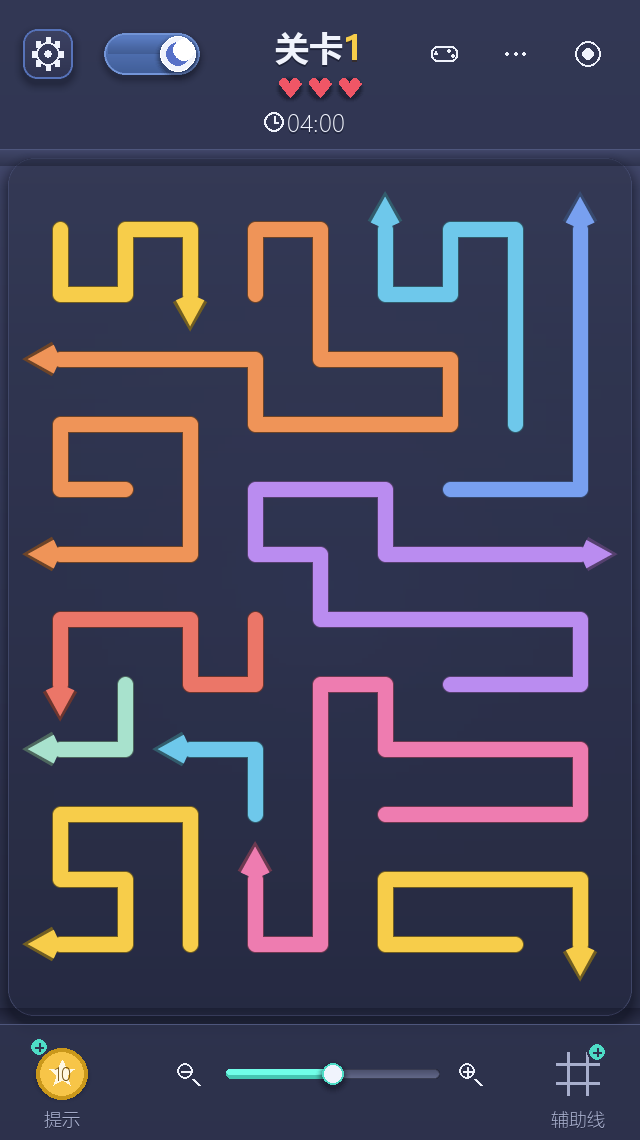
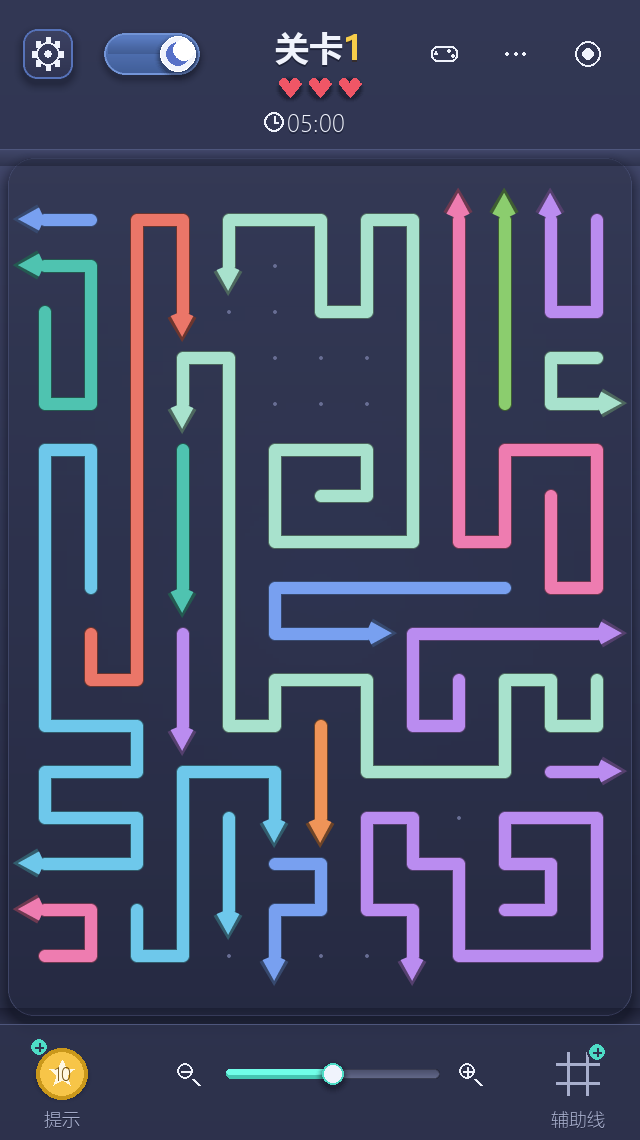
docs: 同步棋盘加密的说明、测试记录 T14/T15、AIGC 记录，重出截图
- README：棋盘密度一节改成实测值（基础 16x13 ~ 25x21、遮罩 155~475 格；
  字母统一 23x17 / 391 格；格子 24~40 px），332 -> 338 个用例
- docs/design.md：4.3 难度曲线换成新的 12 关表（开局可飞 62% -> 11% 严格递减）、
  第 9 节字母关 scale=3 / 23x17、8.6 性能表更新并补一句加密后的开销
- docs/test-record.md：标题升到 T01–T15、汇总 338 passed，新增
  T14（顶栏靶心按钮回归）与 T15（棋盘加密，含难度曲线反转的修法）
- AIGC记录.md：汇总表新增第 17 行（靶心按钮）与第 18 行（棋盘加密）
- 截图重出 16 张（棋盘加密后盘面全部变化）

Changed region(s): [[0.0312, 0.1535, 0.9688, 0.8596], [0.4688, 0.0921, 0.5, 0.1228]]

diff --git a/docs/design.md b/docs/design.md
@@ -42,10 +42,10 @@
 ```python
 {
     "id": 9, "name": "第9关 大盘如月", "shape": "round",
-    "mistakes": 3, "rows": 15, "cols": 15,
-    "seed": 9909072, "time_limit": 320,
+    "mistakes": 3, "rows": 21, "cols": 21,
+    "seed": 9909072, "time_limit": 460,
     "arrows": [ ... ],
-    "solution": [19, 18, ..., 0],   # 一条已验证的通关顺序
+    "solution": [37, 36, ..., 0],   # 一条已验证的通关顺序
 }
 ```
 
@@ -59,7 +59,7 @@
 ```python
 {
     "id": "M", "letter": "M", "shape": "letter",
-    "mistakes": 3, "rows": 16, "cols": 12, "time_limit": 210,
+    "mistakes": 3, "rows": 23, "cols": 17, "time_limit": 300,
     "arrows": [ ... ], "solution": [ ... ],
 }
 ```
@@ -153,24 +153,35 @@
 `tools/generate_levels.py` 给每一关单独配 `ray_pref` 与「开局可飞上限」，
 每关重启 240 次，在满足上限的候选里取填充率最高的一版。当前 12 关：
 
-| 关卡 | 形状 | 箭数 | 填充率 | 开局可飞 | 被挡 | 平均挡者 |
-|---|---|---|---|---|---|---|
-| 第1关 | 矩形 | 12 | 1.000 | 8 (67%) | 33% | 1.00 |
-| 第2关 | 矩形 | 12 | 0.985 | 7 (58%) | 42% | 0.75 |
-| 第3关 | 圆形 | 14 | 0.979 | 7 (50%) | 50% | 1.07 |
-| 第4关 | 菱形 | 10 | 0.941 | 5 (50%) | 50% | 1.20 |
-| 第5关 | 十字 | 12 | 1.000 | 5 (42%) | 58% | 1.25 |
-| 第6关 | 心形 | 13 | 0.977 | 4 (31%) | 69% | 1.77 |
-| 第7关 | 矩形 | 25 | 0.988 | 7 (28%) | 72% | 1.96 |
-| 第8关 | 三角 | 14 | 0.976 | 3 (21%) | 79% | 2.43 |
-| 第9关 | 圆形 | 25 | 0.960 | 5 (20%) | 80% | 2.44 |
-| 第10关 | 沙漏 | 13 | 0.976 | 2 (15%) | 85% | 2.15 |
-| 第11关 | 圆环 | 22 | 0.963 | 3 (14%) | 86% | 1.77 |
-| 第12关 | 矩形 | 19 | 0.962 | 2 (11%) | 89% | 2.95 |
-| **平均** | | 15.9 | 0.976 | 34% | 66% | 1.73 |
+| 关卡 | 形状 | 棋盘 | 箭数 | 填充率 | 开局可飞 | 被挡 | 平均挡者 |
+|---|---|---|---|---|---|---|---|
+| 第1关 | 矩形 | 17×13 | 21 | 0.941 | 13 (62%) | 38% | 0.76 |
+| 第2关 | 矩形 | 18×14 | 29 | 0.929 | 14 (48%) | 52% | 2.17 |
+| 第3关 | 圆形 | 16×16 | 28 | 0.962 | 13 (46%) | 54% | 1.07 |
+| 第4关 | 菱形 | 18×18 | 25 | 0.933 | 11 (44%) | 56% | 1.96 |
+| 第5关 | 十字 | 18×18 | 17 | 0.968 | 7 (41%) | 59% | 1.94 |
+| 第6关 | 心形 | 18×18 | 25 | 0.956 | 9 (36%) | 64% | 1.20 |
+| 第7关 | 矩形 | 21×15 | 33 | 0.937 | 8 (24%) | 76% | 2.67 |
+| 第8关 | 三角 | 17×18 | 19 | 0.963 | 4 (21%) | 79% | 2.21 |
+| 第9关 | 圆形 | 21×21 | 38 | 0.943 | 6 (16%) | 84% | 2.84 |
+| 第10关 | 沙漏 | 20×17 | 23 | 0.928 | 3 (13%) | 87% | 1.96 |
+| 第11关 | 圆环 | 21×21 | 35 | 0.931 | 4 (11%) | 89% | 2.31 |
+| 第12关 | 矩形 | 25×19 | 55 | 0.931 | 6 (11%) | 89% | 4.22 |
+| **平均** | | | 29.0 | 0.943 | 31% | 69% | 2.11 |
 
-「开局可飞」逐关递减：第 1 关七成左右能直接点（给新手留容错），第 12 关只剩
-一成多（开局只有 2 支能点，其余全被压住）。
+「开局可飞」逐关递减且**严格不回升**：第 1 关六成多能直接点（给新手留容错），
+第 12 关只剩一成（55 支箭里开局只有 6 支能点，其余全被压住）。
+
+怎么保证「严格不回升」？只靠 PLAN 里那张上限表是压不住的 —— 每一关都在自己的
+上限内独立挑最满的一版，实际值可能比上一关还高（上限 0.78 拿到 0.62，下一关上限
+0.65 却拿到 0.64）。所以 `build_one()` 做了两件事：
+
+1. 把上限压到「上一关**实际**值 − `FREE_MARGIN`(0.004)」以下；
+2. 上限压下去以后，**同一个种子不一定够得到**（环形 21×21 用原种子只能到 14.6%，
+   换种子能到 10.8%），而且够到了也可能铺得很稀 —— 于是上限没满足、或满足了但
+   填充率不到 `GOOD_FILL`(0.92)，就换个种子再来一遍，取「满足上限里铺得最满」的一版。
+
+校验里也加了这条：`--check` 会打印整条难度曲线，出现回升就报 BAD。
 
 生成后要过两道独立检查：`verify_solution()` 拿真正的 `Board` 按 `solution`
 模拟点一遍，`solver.solve()` 再独立解一遍，两边都过才写进 `game/level.py`。
@@ -446,21 +457,24 @@ paint.blit_glow(self.canvas, center, 430, pal.glow, 62, 2.3)
 
 | 界面 | 中位 | 最大 |
 |---|---|---|
-| 开始页（含艺术字） | 1.89 ms | 2.88 ms |
-| 规则页 | 5.78 ms | 10.76 ms |
-| 基础选关 | 3.86 ms | 4.87 ms |
-| 字母选关 | 1.54 ms | 2.93 ms |
-| 字母关（静态） | 2.16 ms | 2.72 ms |
-| 字母关（飞行中） | 2.15 ms | 3.01 ms |
-| 第 1 关（静态） | 2.43 ms | 3.31 ms |
-| 第 12 关（静态） | 3.32 ms | 4.27 ms |
-| 第 12 关（飞行中） | 3.25 ms | 4.03 ms |
-| 菜单展开 | 5.75 ms | 7.05 ms |
-| 第 12 关（日间） | 3.28 ms | 4.63 ms |
+| 开始页（含艺术字） | 2.24 ms | 5.59 ms |
+| 规则页 | 6.69 ms | 7.61 ms |
+| 基础选关 | 4.02 ms | 5.05 ms |
+| 字母选关 | 1.68 ms | 2.29 ms |
+| 字母关（静态） | 2.91 ms | 5.88 ms |
+| 字母关（飞行中） | 2.82 ms | 3.98 ms |
+| 第 1 关（静态） | 3.40 ms | 5.33 ms |
+| 第 12 关（静态） | 6.02 ms | 8.07 ms |
+| 第 12 关（飞行中） | 5.47 ms | 9.04 ms |
+| 菜单展开 | 8.22 ms | 9.83 ms |
+| 第 12 关（日间） | 5.52 ms | 9.24 ms |
 
 都远在 60 FPS 的 16.7 ms 预算之内。最贵的是「规则页 / 菜单展开」—— 除了面板本身，
-还要整屏铺一层半透明遮罩，页面上又是一堆小卡片。艺术字反而便宜（1.89 ms）：
-它是一张预渲染好的贴图，一帧只是一次 blit，6.3 ms 的构建成本只在第一次画时付一次。
+还要整屏铺一层半透明遮罩，页面上又是一堆小卡片。艺术字反而便宜（2.24 ms）：
+它是一张预渲染好的贴图，一帧只是一次 blit，构建成本只在第一次画时付一次。
+
+棋盘加密到约 1.4 倍之后，最贵的一档从 3.32 ms 涨到 6.02 ms（第 12 关静态）——
+格子多了约九成，铺底色、描边、箭头都得按格子走一遍。仍然只有预算的三分之一。
 
 ### 8.7 艺术字：先放大、再加工、最后缩回
 
@@ -495,7 +509,7 @@ paint.blit_glow(self.canvas, center, 430, pal.glow, 62, 2.3)
 四周再留一圈空边：
 
 ```python
-def letter_cells(rows, cols, letter, scale=2, margin=1):
+def letter_cells(rows, cols, letter, scale=3, margin=1):
     cells = set()
     for (r, c) in on_pixels(letter):          # 字模里的 '#' 像素
         for dr in range(scale):
@@ -504,8 +518,9 @@ def letter_cells(rows, cols, letter, scale=2, margin=1):
     return cells
 ```
 
-`scale=2, margin=1` 时棋盘恰好是 **16 × 12**，26 关尺寸统一 —— 于是
-`main._cell_rect` 的几何、选关页的网格都能共用一套。
+`scale=3, margin=1` 时棋盘恰好是 **23 × 17**（391 格），26 关尺寸统一 —— 于是
+`main._cell_rect` 的几何、选关页的网格都能共用一套。默认缩放下格子边长约 30 px，
+比早期 `scale=2`（16 × 12，格子 44 px）密了一档，字母的弧线与斜笔也平滑得多。
 
 **踩过的坑**：`board_size()` 一开始返回 `(列, 行)`，而调用方全都按 `(行, 列)`
 解包。字模右下角被裁掉一块、遮罩变成不连通，`build_level` 直接返回 `None`，
@@ -517,7 +532,7 @@ def letter_cells(rows, cols, letter, scale=2, margin=1):
 点阵里 `C`（上横与左竖）、`S`、`J`、`Q` 的笔画是**对角相接**的：
 
 ```text
-C 的字模          放大后（2 倍）
+C 的字模          放大后（3 倍）
 .###.            ......####....      斜角处两个方块共享一个角点，
 #...#            ..####......##      看着是一笔连下来的
 #....            ..##..........
@@ -540,10 +555,10 @@ C 的字模          放大后（2 倍）
 | `ray_pref` | 0.45 | → | 0.90 | 越偏好「前方空走廊长」的落点，越容易被后面放的箭压住 |
 | `max_free` | 0.58 | → | 0.30 | 开局能直接飞的箭数占比上限 |
 
-实测（26 关平均 12.1 支箭、填充率 0.998）：A–E 一带开局 47% 的箭能直接点，
-V–Z 一带只剩 29%；被挡比例从 50% 升到 69%。另有 `max_piece = 14` 一条：
-字母的笔画窄（只有 2~3 格宽），默认的 26 格会让一支箭一口吞掉整条笔画
-（L 关曾经只剩 3 支箭），压到 14 之后箭数翻了一倍多。
+实测（26 关平均 20.7 支箭、棋盘 23 × 17、填充率 0.977）：A–E 一带开局 51% 的箭
+能直接点，V–Z 一带只剩 29%；被挡比例从 49% 升到 71%。另有 `max_piece` 一条：
+字母的笔画窄（`scale=3` 时只有 3 格宽），默认的 26 格会让一支箭一口吞掉整条笔画
+（早期 L 关曾经只剩 3 支箭），压到 20 之后箭数才够看。
 
 ### 9.4 四个入口与状态机
 

diff --git a/docs/test-record.md b/docs/test-record.md
@@ -1,8 +1,8 @@
-# 测试记录（T01 – T13）
+# 测试记录（T01 – T15）
 
 - 运行环境：Windows 11 / Python 3.14.0 / pygame-ce 2.5.8 / pytest 9.x
 - 运行方式：项目根目录执行 `python -m pytest -q`（测试在 SDL dummy 驱动下无窗口运行）
-- 汇总结果：**332 passed**，耗时约 11.0 s
+- 汇总结果：**338 passed**，耗时约 12.5 s
 
 ---
 
@@ -361,6 +361,84 @@
   `letter_select_day.png`、`playing_letter_a.png`、`playing_letter_m.png`），逐张人工核对。
 - **结论**：开始页从「两个按钮」变成「艺术字标题 + 四个入口 + 进度统计」；规则页、
   基础 12 关、字母 26 关、随机关卡四条线各有独立入口且互不干扰；`N` 键彻底移除。
+
+---
+
+## T14 顶栏靶心按钮按当前玩法回选关页（回归）
+
+- **目的**：玩家反馈「点上面那个圆圈退出时老是退到基础关卡选择界面」。这枚顶栏
+  按钮原来接的是 `open_level_select` —— 一个在**类定义时**就用
+  `open_level_select = open_basic_select` 绑死到基础选关的别名，所以玩字母关时
+  点它照样掉进基础选关页。
+- **用例**：`tests/test_letters.py` 新增 3 个、改造 1 个：
+  `test_top_bar_target_button_returns_to_the_matching_select_page`、
+  `test_top_bar_target_button_from_a_random_level_goes_to_basic_select`、
+  `test_the_basic_only_alias_is_gone`、`test_menu_jumps_to_the_matching_select_page`
+  （这条原本只调 `open_select()`，改成走完整链路）。
+- **做法**：HUD 的 `select` 回调改接 `open_select` —— 它按 `self.track`
+  **现场分派**，而不是在类定义时绑死；同时**删掉** `open_level_select` 这个别名，
+  它本身就是这个 bug 的来源。
+- **步骤**：
+  1. 进字母关 M（对局中）→ 派发一个真实的 `MOUSEBUTTONDOWN` 打到
+     `hud.select_button.rect.center` → 断言回到 `LETTER_SELECT`，且
+     `track == "letter"`、`levels is letter_levels`；
+  2. 进基础第 3 关 → 同一枚按钮 → 断言回到 `BASIC_SELECT`，`track == "basic"`；
+  3. 从随机关卡点它 → 断言回到 `BASIC_SELECT`（随机关没有自己的选关页）；
+  4. 断言 `main.Game` 上**不存在** `open_level_select` 这个属性。
+- **预期**：全部通过。
+- **实际**：4 个用例全过，全量 **335 个用例**全过。
+- **结论**：这类「别名在类定义时绑死」的回调不会报错、只会走错分支，光看代码很难
+  发现；所以回归用例必须**真的发一个点击事件走完整链路**（点击 → HUD → IconButton
+  → 回调），只测那个方法测不出来。顺手把 `Esc` 返回路径也排查了一遍：它本来就是
+  按 `self.track` 分派的，没有同类问题。
+
+---
+
+## T15 棋盘格子数整体加密到约 1.4 倍
+
+- **目的**：玩家要求「棋盘格子数增加」。按 640×1140 画布实算后，选的是
+  **两条线一起加密到约 1.4 倍** —— 格子从 44 px 降到 31 px、线宽从 13 px 降到
+  9 px，棋盘仍然铺满屏幕，只是更精细。
+- **用例**：`tests/test_generator.py` 新增
+  `test_basic_levels_use_the_denser_grid`、
+  `test_random_levels_also_use_the_denser_grid`；
+  `tests/test_letters.py` 里写死旧尺寸的 4 条（`test_board_size_is_rows_then_cols`
+  等）同步改成新尺寸。
+- **做法**：
+  1. **字母关**：`game/letters.py` 的 `DEFAULT_SCALE` 2 → 3，棋盘 16×12 → **23×17**
+     （391 格）；字母笔画从 2 格宽变成 3 格宽，斜笔明显平滑了；
+  2. **基础关**：`tools/generate_levels.py` 的 `PLAN` 尺寸整体放大
+     （12×9 → 17×13，15×15 → 21×21，18×13 → 25×19），从 **16×13 到 25×21**；
+     箭数 17~55（平均 29.0，原来 15.9）；
+  3. **随机关**：`generator.RANDOM_SHAPES` 与 `random_level()` 的尺寸同步放大，
+     否则从开始页「随机关卡」进去还是老盘面；
+  4. `MAX_PIECE` 从 14 放宽到 20 —— 放大后笔画宽了，一支箭可以吃更长而不吞掉整条笔画。
+- **步骤**：
+  1. 12 关基础关：每行断言 `rows >= 16`、`cols >= 13`、遮罩 ≥ 150 格、箭数 ≥ 20；
+  2. 随机关尺寸表：同上三条逐项断言；
+  3. 26 个字母在 `scale=3` 下遮罩**全部八连通**（这是能生成的前提）；
+  4. 全量重跑：26 关字母关与 12 关基础关都要「能解 + 有阻挡 + 填充率达标」
+     （这几条是 T13 / 旧有用例，加密后照旧适用）。
+- **预期**：全部通过，且难度曲线不回升。
+- **实际**：
+  - 第一轮生成**挂了一条**：`test_basic_levels_keep_the_difficulty_curve`
+    报第 11 关（圆环 21×21）的开局可飞比第 10 关高。原因是每关都在自己的
+    上限内独立挑「铺得最满」的一版，**实际值可能反而比上一关高** —— 第 10 关上限
+    0.15 拿到了 13%，第 11 关上限 0.13 却因为形状所限只拿到 14.6%。
+  - 修法：把上限改成**跟着上一关的实际值往下压**（`prev_free - FREE_MARGIN`）。
+    但压下去之后同一个种子未必够得到（环形 21×21 用原种子只能到 14.6%，换种子能到
+    10.8%），所以再补一层**换种子重试**（`SEED_STEP=100003`、最多 6 次），
+    并且在候选中按 `(是否满足上限, 填充率)` 取最优 —— 只压难度会让第 11 关的填充率
+    掉到 0.887，两个指标得一起挑。
+  - 终版 12 关：开局可飞 **62% → 11% 严格递减**，填充率 0.928 ~ 0.968，
+    全程 `EXIT=0`。
+  - 全量 **338 个用例**全过（12.5 s）。
+- **性能**：格子多了约九成，最贵的一档从 3.32 ms 涨到 **6.02 ms**（第 12 关静态），
+  仍在 16.7 ms 预算的三分之一。放大到最大时横向溢出 0（12 关全部不溢出），
+  拖动平移够得着全盘。
+- **结论**：棋盘加密没有动几何计算本身 —— `_compute_geometry()` 的格子尺寸是按
+  可视区反算的，改数据即可；真正需要重新调的是**生成参数**（`max_piece`、
+  难度上限），因为盘面一大，原来那套参数会同时把「填充率」和「难度曲线」带偏。
 
 ---
 

diff --git a/AIGC记录.md b/AIGC记录.md
@@ -26,6 +26,8 @@
 | 14 | 箭头与线段美化 | DeepSeek | 玩家反馈「箭头和线再美化一下」 | 先把参考录屏用 `imageio_ffmpeg` 抽帧、numpy/PIL 逐像素量成数字（金黄那支箭实占 14 px、格心间距约 56 px → 线宽定为格距的 0.30，上限 12→15 px）；箭头由等腰三角改成 4 顶点「飞镖」（倒钩前掠 0.42 倍线宽、后缘内凹兜住线身圆头）；整支箭加一圈等厚外描边（线身 `+2×rim`、箭头 `pad=rim`，描边色 = 线身色乘系数）；顺带查出「拐点/端头鼓 1 像素」的根因是圆点直径取成了 `2r+1` | 线宽与箭头造型对齐参考图，拐点与端头不再鼓包；新增 `tests/test_stroke.py` 43 个用例，全量 193 个用例通过 | 先量数字再动手；否掉「把整支箭放大一圈」当描边（会让箭头粗出好几倍）；把两个坑写回 skill 备查 |
 | 15 | 界面 / 背景 / 按钮美化 | DeepSeek | 玩家反馈「界面、背景、按钮等再美化一下」 | 新增 `game/paint.py`：竖向渐变、径向柔光、圆角投影、卡片面（渐变+圆角+细描边+顶部高光+投影）、文字阴影，全部按参数预渲染并缓存；`theme.py` 补 17 个层次配色字段（日夜各一套）；背景改渐变+柔光，棋盘垫圆角面板，顶底栏改半透明玻璃+渐隐阴影，按钮/卡片/菜单项/滑杆全部改渐变+描边+投影，按钮悬停提亮描边、按下下沉 2 像素 | 界面有了层次，不再是「纯色底 + 硬描边」；新增 `tests/test_paint.py` 34 个用例，全量 227 个用例通过；`tools/perf_bench.py` 量得各界面整帧 2.45~5.72 ms，无回退 | 顺手修掉三处排版事故（开始页文字压在卡片外、选关页下半屏大片空白、菜单最后一项顶在面板底边上）；新增离屏截图 `settings.png` / `level_clear_day.png` 逐张人工核对 |
 | 16 | 开始页四个入口与字母玩法 | DeepSeek | 玩家要求美化开始页：标题改艺术字，下面放「规则介绍 / 基础玩法 / 字母玩法 / 随机关卡」四个按钮；规则页要写明按键（含 `U` 撤销）但**去掉 `N` 是随机关卡**这一条；字母玩法共 26 关、每关盘面拼成对应的大写字母；随机关从 `N` 键搬到按钮上 | `game/paint.py` 新增 `art_text`（3 倍超采样 + 圆盘偏移做等厚描边 + 按 alpha 乘渐变/高光 + 投影，无需额外字体）；`game/letters.py` 内置 26 个 5×7 点阵字模并光栅化成棋盘遮罩，字母关连通性改用**八连通**；`tools/generate_letters.py` 生成 26 关（难度沿字母序递进）；`game/states.py` 扩到 8 个状态，`main.py` 用 `self.track` 区分基础 / 字母两条线；`icons.py` 补四个入口图标、`ui.Button` 支持 `icon`；删掉 `K_n` 分支与规则页对应的那一行 | 开始页变成「艺术字标题 + 四个入口 + 进度统计」；四条线各有独立入口且互不干扰；`N` 键彻底移除。新增 `tests/test_letters.py` 104 个用例，全量 332 个用例通过；新增界面整帧 1.70~6.66 ms | 先量了「放大后横向溢出 131~171 px」才修拖不动（上一轮）；本轮先写探针脚本确认 26 个字母遮罩都连通、都能生成，才动手改主流程；专门补了一条 `board_size()` 必须是 `(行, 列)` 的用例，因为**这个顺序写反过一次**，直接害得 C/G/J/U/V 五个字母生成失败 |
+| 17 | 顶栏靶心按钮回错选关页（回归） | DeepSeek | 玩家反馈「点上面那个圆圈退出时老是退到基础关卡选择界面」 | 查出这枚顶栏按钮接的是 `open_level_select` —— 一个在**类定义时**用 `open_level_select = open_basic_select` 绑死到基础选关的别名，于是玩字母关时点它也掉进基础选关页；回调改接 `open_select`（按 `self.track` **现场分派**），并把这个别名直接删掉 | 字母关 / 基础关各回各的选关页，随机关回基础选关页；新增 3 个回归用例（走完整点击链路：点击 → HUD → IconButton → 回调），全量 335 个用例通过 | 这类「别名在类定义时绑死」的回调**不报错、只走错分支**，光读代码发现不了；回归用例必须真的发一个点击事件走完整链路，只测那个方法测不出来 |
+| 18 | 棋盘格子数加密到约 1.4 倍 | DeepSeek | 玩家要求「棋盘格子数增加」 | 先按 640×1140 画布实算三档密度再让用户选（格子 44→31→24 px、线宽 13→9→7 px），选了中间的 1.4 倍档；字母关 `DEFAULT_SCALE` 2→3（16×12 → **23×17**，391 格），基础关尺寸整体放大（12×9 → 17×13，最大到 25×19），随机关尺寸表同步放大；`MAX_PIECE` 14→20（笔画变宽，一支箭可以吃更长） | 棋盘更精细、字母弧线明显平滑；箭数 15.9 → 29.0（平均）；全量 338 个用例通过；最贵一档整帧 3.32 → 6.02 ms，仍在 16.7 ms 预算的三分之一；放大到最大时 12 关全部不横向溢出 | 加密本身没动几何计算（格子按可视区反算，改数据即可），但把**生成参数**带偏了：难度曲线出现小反转 —— 每关都在自己上限内独立挑「最满」的一版，实际值可能反而比上一关高。修法是上限跟着上一关**实际值**往下压，且压不动时**换种子重试**，并按 `(是否满足上限, 填充率)` 取最优（只压难度会让填充率掉到 0.887） |
 
 ---
 
